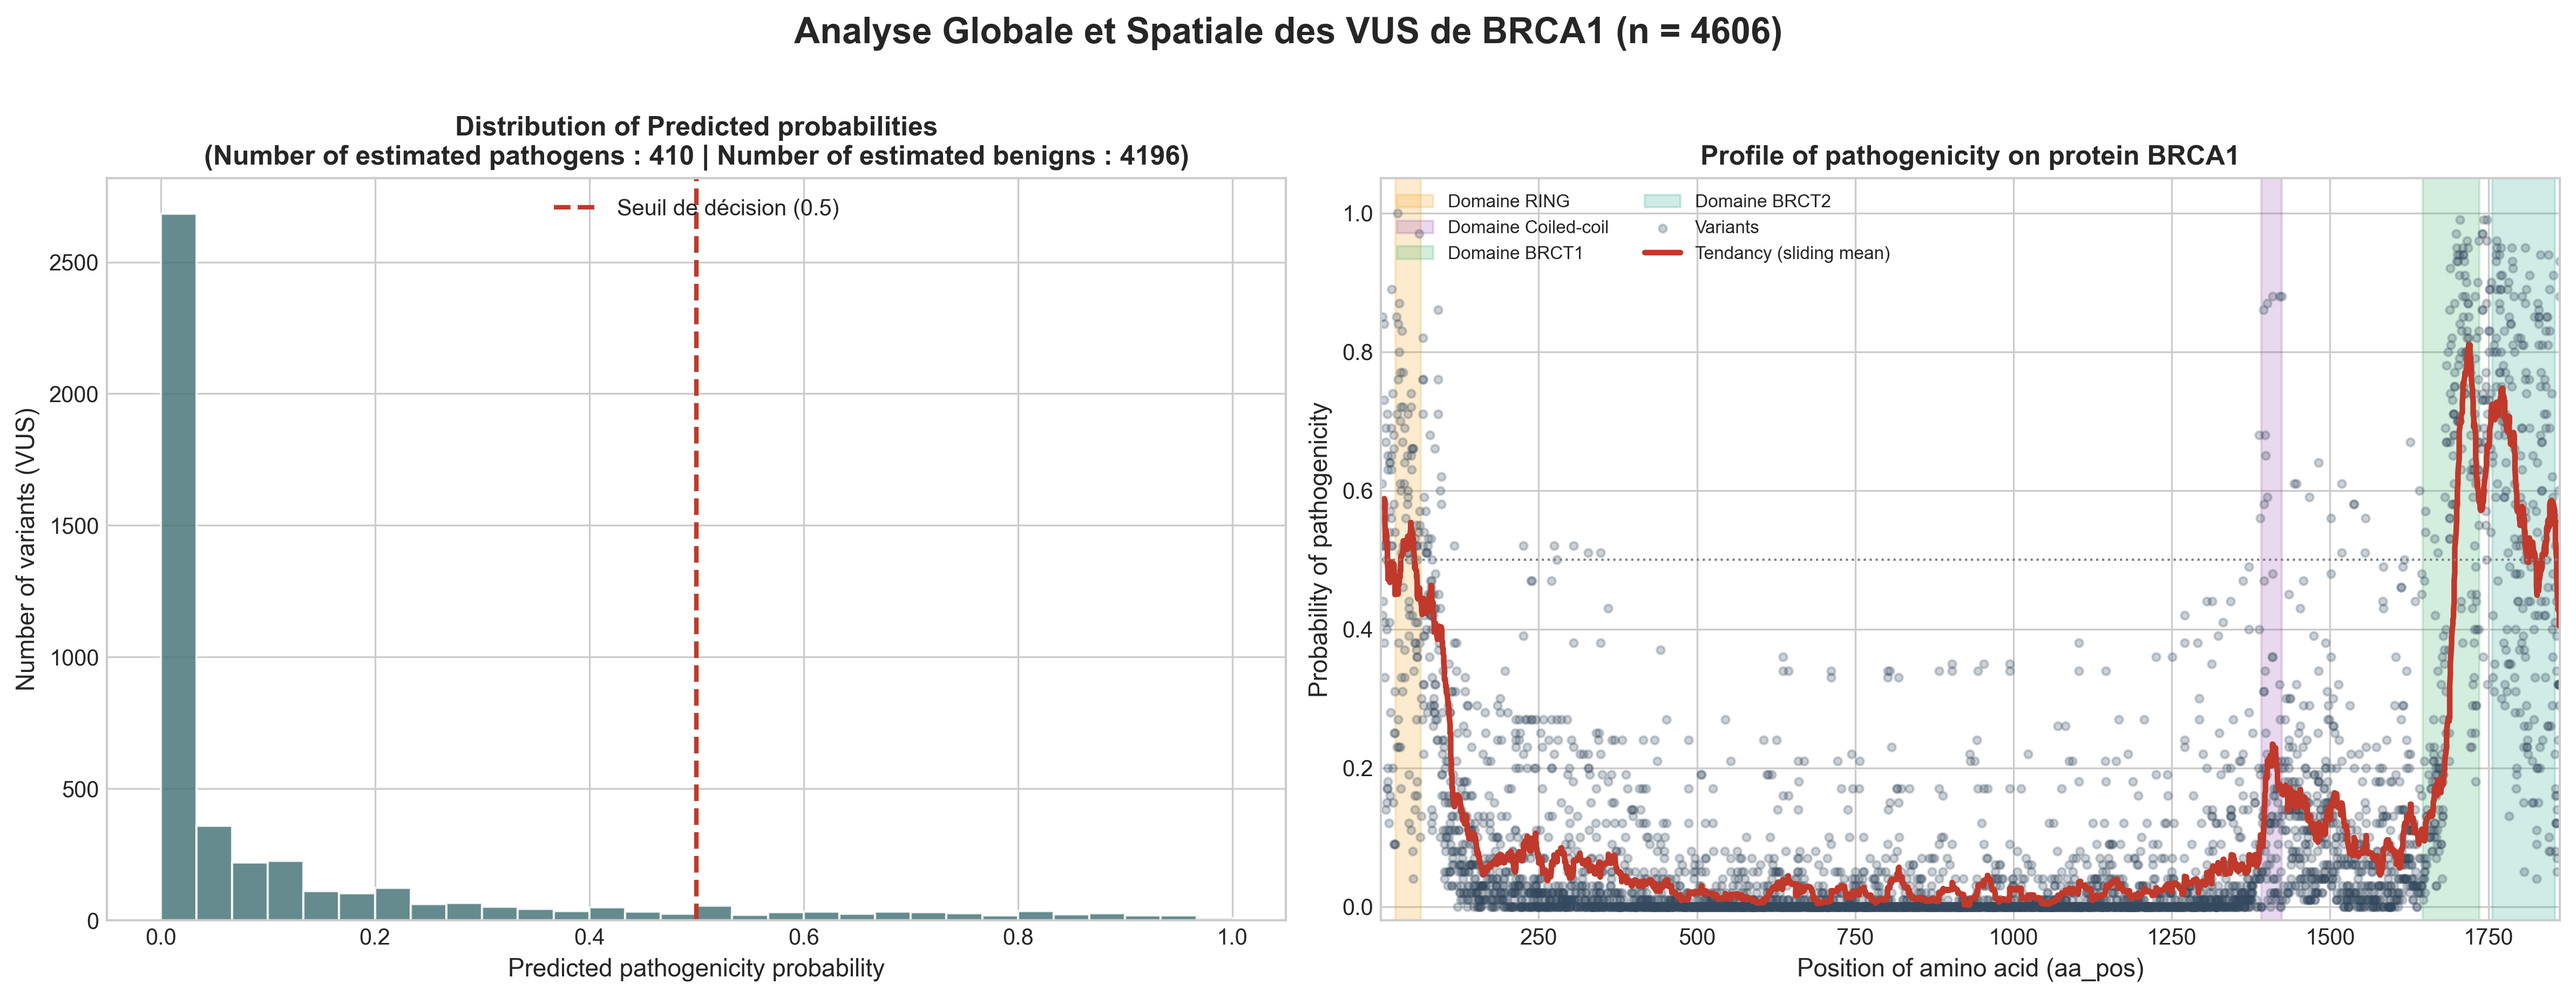
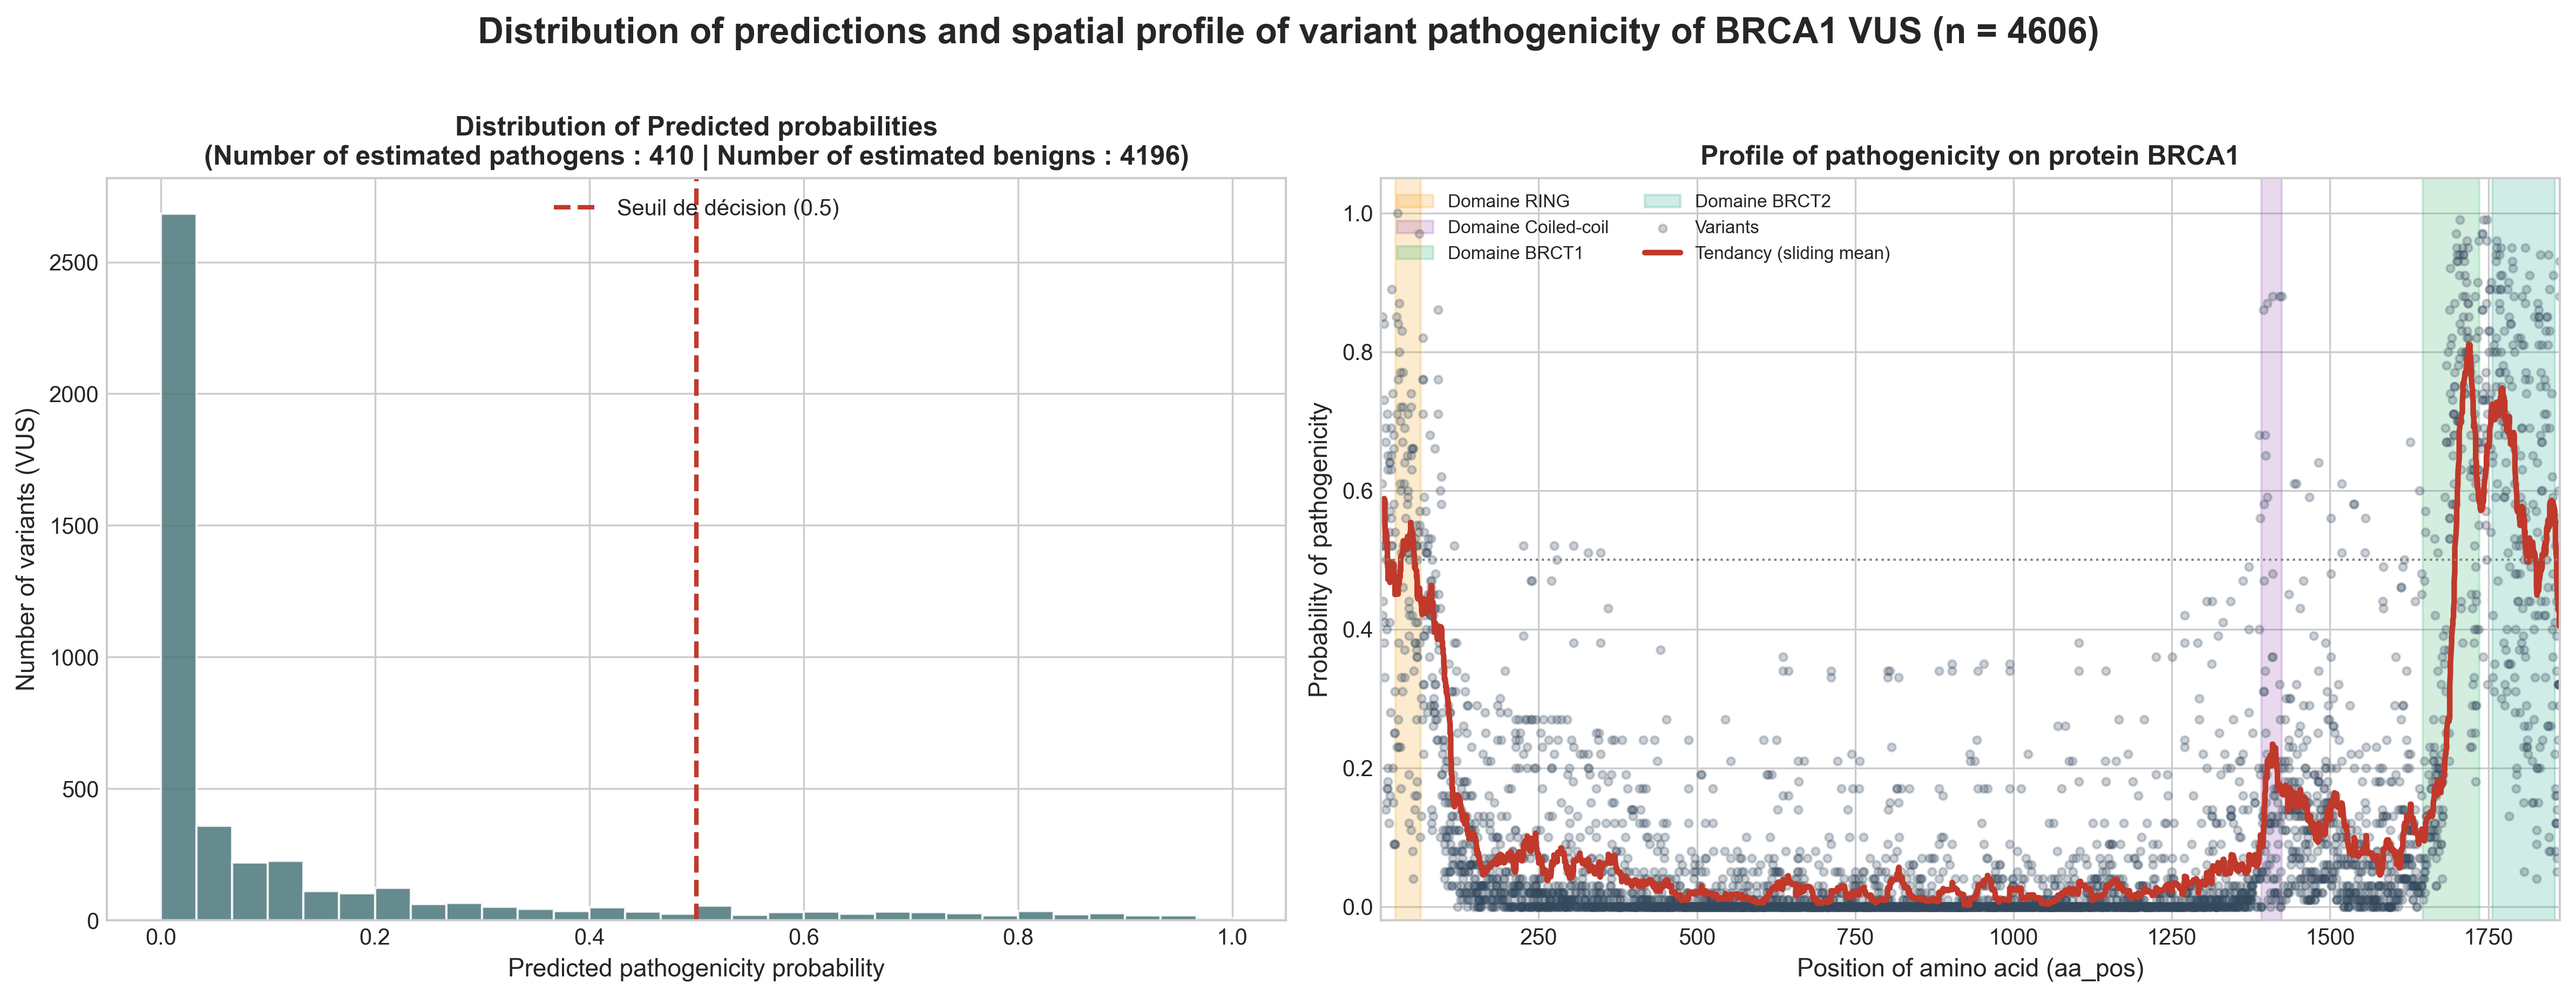
fixed visualisation title

Changed region(s): [[0.1873, 0.0, 0.8118, 0.0617]]

diff --git a/result_visualisation.py b/result_visualisation.py
@@ -9,7 +9,7 @@ df = pd.read_csv(input_file)
 plt.style.use("seaborn-v0_8-whitegrid")
 fig, axes = plt.subplots(1, 2, figsize=(16, 6))
 fig.suptitle(
-    "Analyse Globale et Spatiale des VUS de BRCA1 (n = {})".format(len(df)),
+    "Distribution of predictions and spatial profile of variant pathogenicity of BRCA1 VUS (n = {})".format(len(df)),
     fontsize=16,
     fontweight="bold",
     y=1.02,
